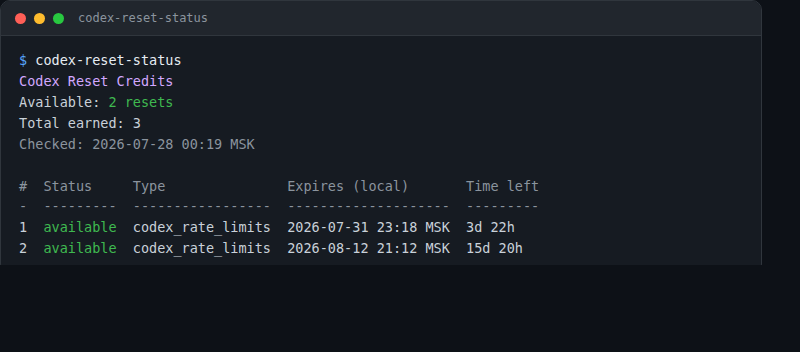
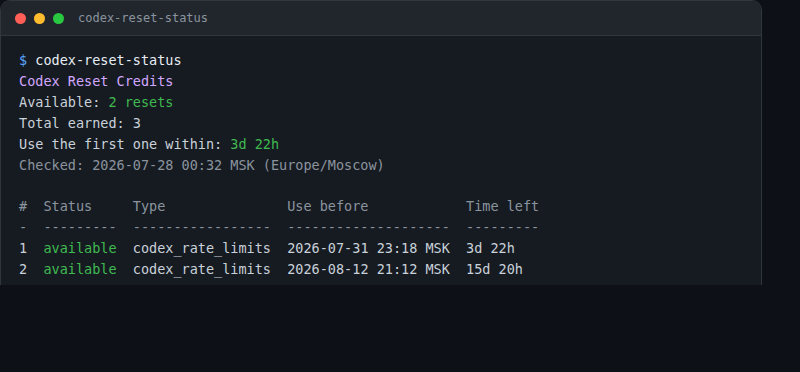
feat: make the reset deadline and its time zone unambiguous
Time zone handling was implicit: TimeZone::system() silently returned UTC when
the host zone could not be resolved, so a user in a broken-TZ environment saw
UTC values with no indication they were not local.

- resolve the display zone explicitly; an unresolvable host zone now falls back
  to UTC and emits a warning instead of pretending
- name the zone in the output ("Checked: ... MSK (Europe/Moscow)") and expose
  checkedAtLocal, timeZone and nextExpirySeconds in the v1 JSON
- add --utc / CODEX_RESET_STATUS_UTC=1 for UTC rendering in logs and shared
  output
- state the deadline for the soonest-expiring reset, and rename the column to
  "Use before" so the value reads as a deadline rather than a timestamp

Expiry timestamps still arrive in UTC and are converted on the user's machine
from TZ or /etc/localtime.

Tests: named-zone and UTC rendering, host-zone default, the warning path for an
unusable TZ, and the new JSON fields. make check green (13 unit + 14
integration Rust tests, fmt, clippy -D warnings, release build, guards, parity,
6 launcher tests).

Docs: README time-zone section and refreshed terminal screenshot, architecture
note, changelog.

diff --git a/src/payload.rs b/src/payload.rs
@@ -1,4 +1,5 @@
 use jiff::Timestamp;
+use jiff::tz::TimeZone;
 use serde::Serialize;
 use serde_json::{Map, Value};
 
@@ -31,13 +32,32 @@ pub struct Credit {
 pub struct Summary {
     pub source: &'static str,
     pub checked_at: Timestamp,
+    pub checked_at_local: String,
+    pub time_zone: String,
     pub available_count: u64,
     pub total_earned_count: Option<u64>,
     pub credits: Vec<Credit>,
     pub warnings: Vec<String>,
 }
 
-pub fn parse(payload: &Value, source: &'static str, now: Timestamp) -> Result<Summary, CliError> {
+impl Summary {
+    /// Seconds until the first credit expires, so callers can show the deadline
+    /// that matters instead of scanning the table.
+    pub fn next_expiry_seconds(&self) -> Option<i64> {
+        self.credits
+            .iter()
+            .filter_map(|credit| credit.seconds_left)
+            .filter(|seconds| *seconds > 0)
+            .min()
+    }
+}
+
+pub fn parse(
+    payload: &Value,
+    source: &'static str,
+    now: Timestamp,
+    zone: &TimeZone,
+) -> Result<Summary, CliError> {
     let root = payload.as_object().ok_or_else(|| {
         CliError::new(
             ErrorKind::Response,
@@ -81,7 +101,7 @@ pub fn parse(payload: &Value, source: &'static str, now: Timestamp) -> Result<Su
             status: string_field(object, "status"),
             reset_type: string_field(object, "reset_type"),
             expires_at_utc: expiry.map(|timestamp| timestamp.to_string()),
-            expires_local: expiry.map(timefmt::local),
+            expires_local: expiry.map(|timestamp| timefmt::local(zone, timestamp)),
             seconds_left,
             time_left: seconds_left
                 .map(timefmt::time_left)
@@ -102,6 +122,8 @@ pub fn parse(payload: &Value, source: &'static str, now: Timestamp) -> Result<Su
     Ok(Summary {
         source,
         checked_at: now,
+        checked_at_local: timefmt::local(zone, now),
+        time_zone: timefmt::zone_label(zone),
         available_count,
         total_earned_count,
         credits: parsed,
@@ -157,6 +179,7 @@ fn string_field(object: &Map<String, Value>, key: &str) -> Option<String> {
 #[cfg(test)]
 mod tests {
     use jiff::Timestamp;
+    use jiff::tz::TimeZone;
     use serde_json::json;
 
     use super::parse;
@@ -164,8 +187,13 @@ mod tests {
     #[test]
     fn rejects_missing_credit_shape() {
         let now = Timestamp::UNIX_EPOCH;
-        let error =
-            parse(&json!({"available_count": 0}), "fixture", now).expect_err("must fail closed");
+        let error = parse(
+            &json!({"available_count": 0}),
+            "fixture",
+            now,
+            &TimeZone::UTC,
+        )
+        .expect_err("must fail closed");
         assert_eq!(error.kind.exit_code(), 6);
     }
 
@@ -185,6 +213,7 @@ mod tests {
             }),
             "fixture",
             now,
+            &TimeZone::UTC,
         )
         .unwrap();
         let rendered = serde_json::to_string(&summary.credits).unwrap();

diff --git a/src/timefmt.rs b/src/timefmt.rs
@@ -43,9 +43,32 @@ fn parse_number(value: f64) -> Option<Timestamp> {
     }
 }
 
-pub fn local(timestamp: Timestamp) -> String {
+/// Resolves the display zone. Without `--utc` this is the host zone from `TZ` or
+/// `/etc/localtime`; when that cannot be resolved the caller gets UTC plus a
+/// warning, so a fallback is never silent.
+pub fn resolve_zone(utc: bool) -> (TimeZone, Option<String>) {
+    if utc {
+        return (TimeZone::UTC, None);
+    }
+    match TimeZone::try_system() {
+        Ok(zone) => (zone, None),
+        Err(error) => (
+            TimeZone::UTC,
+            Some(format!(
+                "cannot determine the system time zone ({error}); times are shown in UTC"
+            )),
+        ),
+    }
+}
+
+/// Human-readable zone label for output, for example `Europe/Moscow` or `UTC`.
+pub fn zone_label(zone: &TimeZone) -> String {
+    zone.iana_name().unwrap_or("UTC").to_owned()
+}
+
+pub fn local(zone: &TimeZone, timestamp: Timestamp) -> String {
     timestamp
-        .to_zoned(TimeZone::system())
+        .to_zoned(zone.clone())
         .strftime("%Y-%m-%d %H:%M %Z")
         .to_string()
 }
@@ -72,7 +95,27 @@ mod tests {
     use jiff::Timestamp;
     use serde_json::json;
 
-    use super::{parse, time_left};
+    use jiff::tz::TimeZone;
+
+    use super::{local, parse, resolve_zone, time_left, zone_label};
+
+    #[test]
+    fn utc_mode_never_consults_the_host_zone() {
+        let (zone, warning) = resolve_zone(true);
+        assert_eq!(zone, TimeZone::UTC);
+        assert_eq!(warning, None);
+        assert_eq!(zone_label(&zone), "UTC");
+        let timestamp: Timestamp = "2026-07-31T20:18:56Z".parse().unwrap();
+        assert_eq!(local(&zone, timestamp), "2026-07-31 20:18 UTC");
+    }
+
+    #[test]
+    fn renders_a_named_zone_in_local_time() {
+        let zone = TimeZone::get("Asia/Tokyo").expect("bundled or system tzdb");
+        assert_eq!(zone_label(&zone), "Asia/Tokyo");
+        let timestamp: Timestamp = "2026-07-31T20:18:56Z".parse().unwrap();
+        assert_eq!(local(&zone, timestamp), "2026-08-01 05:18 JST");
+    }
 
     #[test]
     fn parses_supported_timestamp_shapes() {

diff --git a/tests/cli.rs b/tests/cli.rs
@@ -284,3 +284,58 @@ fn rejects_a_control_character_account_id_before_any_request() {
         "no request may be sent when the account id is rejected"
     );
 }
+
+#[test]
+fn renders_utc_on_request_and_names_the_zone() {
+    let output = Command::new(binary())
+        .args(["--utc", "--fixture", &fixture("ok.json")])
+        .env("TZ", "Asia/Tokyo")
+        .output()
+        .expect("run binary");
+    assert!(output.status.success());
+    let stdout = String::from_utf8(output.stdout).unwrap();
+    assert!(stdout.contains("(UTC)"), "stdout: {stdout}");
+    assert!(!stdout.contains("JST"), "stdout: {stdout}");
+}
+
+#[test]
+fn renders_the_host_zone_by_default() {
+    let output = Command::new(binary())
+        .args(["--fixture", &fixture("ok.json")])
+        .env("TZ", "Asia/Tokyo")
+        .output()
+        .expect("run binary");
+    assert!(output.status.success());
+    let stdout = String::from_utf8(output.stdout).unwrap();
+    assert!(stdout.contains("(Asia/Tokyo)"), "stdout: {stdout}");
+    assert!(stdout.contains("JST"), "stdout: {stdout}");
+}
+
+#[test]
+fn warns_instead_of_silently_falling_back_when_the_zone_is_unusable() {
+    let output = Command::new(binary())
+        .args(["--fixture", &fixture("ok.json")])
+        .env("TZ", "Invalid/Zone")
+        .output()
+        .expect("run binary");
+    assert!(output.status.success());
+    let stdout = String::from_utf8(output.stdout).unwrap();
+    assert!(
+        stdout.contains("cannot determine the system time zone"),
+        "stdout: {stdout}"
+    );
+    assert!(stdout.contains("(UTC)"), "stdout: {stdout}");
+}
+
+#[test]
+fn reports_the_deadline_for_the_first_expiring_reset() {
+    let output = Command::new(binary())
+        .args(["--json", "--fixture", &fixture("ok.json")])
+        .output()
+        .expect("run binary");
+    assert!(output.status.success());
+    let stdout = String::from_utf8(output.stdout).unwrap();
+    assert!(stdout.contains("\"nextExpirySeconds\""), "stdout: {stdout}");
+    assert!(stdout.contains("\"timeZone\""), "stdout: {stdout}");
+    assert!(stdout.contains("\"checkedAtLocal\""), "stdout: {stdout}");
+}

diff --git a/src/render.rs b/src/render.rs
@@ -17,6 +17,9 @@ struct JsonOutput<'a> {
     tool: Tool,
     source: &'static str,
     checked_at: String,
+    checked_at_local: &'a str,
+    time_zone: &'a str,
+    next_expiry_seconds: Option<i64>,
     available_count: u64,
     total_earned_count: Option<u64>,
     credits: &'a [Credit],
@@ -32,6 +35,9 @@ pub fn json(summary: &Summary) -> Result<String, serde_json::Error> {
         },
         source: summary.source,
         checked_at: summary.checked_at.to_string(),
+        checked_at_local: &summary.checked_at_local,
+        time_zone: &summary.time_zone,
+        next_expiry_seconds: summary.next_expiry_seconds(),
         available_count: summary.available_count,
         total_earned_count: summary.total_earned_count,
         credits: &summary.credits,
@@ -55,13 +61,24 @@ pub fn text(summary: &Summary) -> String {
     if let Some(total) = summary.total_earned_count {
         lines.push(format!("Total earned: {total}"));
     }
-    lines.push(format!("Checked: {}", timefmt::local(summary.checked_at)));
+    if let Some(seconds) = summary.next_expiry_seconds() {
+        lines.push(format!(
+            "Use the first one within: {}",
+            timefmt::time_left(seconds)
+        ));
+    }
+    lines.push(format!(
+        "Checked: {} ({})",
+        summary.checked_at_local, summary.time_zone
+    ));
     lines.push(String::new());
 
     if summary.credits.is_empty() {
         lines.push("No reset credits found.".to_owned());
     } else {
-        let headers = ["#", "Status", "Type", "Expires (local)", "Time left"];
+        // The zone is stated once in the "Checked" line, so the header stays
+        // correct for both local and --utc output.
+        let headers = ["#", "Status", "Type", "Use before", "Time left"];
         let rows: Vec<Vec<String>> = summary
             .credits
             .iter()

diff --git a/src/cli.rs b/src/cli.rs
@@ -14,6 +14,7 @@ pub enum Action {
 
 pub struct Config {
     pub json: bool,
+    pub utc: bool,
     pub auth_file: Option<PathBuf>,
     pub fixture: Option<PathBuf>,
     pub endpoint: String,
@@ -29,6 +30,7 @@ where
     I: IntoIterator<Item = String>,
 {
     let mut json = false;
+    let mut utc = env::var("CODEX_RESET_STATUS_UTC").as_deref() == Ok("1");
     let mut auth_file = env::var_os("CODEX_RESET_STATUS_AUTH_FILE").map(PathBuf::from);
     let mut fixture = env::var_os("CODEX_RESET_STATUS_FIXTURE").map(PathBuf::from);
     let mut endpoint =
@@ -43,6 +45,7 @@ where
     while let Some(arg) = args.next() {
         match arg.as_str() {
             "--json" => json = true,
+            "--utc" => utc = true,
             "--auth-file" => {
                 auth_file = Some(PathBuf::from(require_value(&mut args, "--auth-file")?));
             }
@@ -72,6 +75,7 @@ where
 
     Ok(Action::Run(Config {
         json,
+        utc,
         auth_file,
         fixture,
         endpoint,
@@ -142,6 +146,7 @@ Show available ChatGPT/Codex reset credits and their expiry times.\n\
 \n\
 Options:\n\
   --json              Print codex-reset-status/v1 JSON\n\
+  --utc               Show times in UTC instead of the local system zone\n\
   --auth-file <PATH>  Override the Codex auth.json path\n\
   --fixture <PATH>    Read endpoint JSON from a file; performs no network request\n\
   --endpoint <URL>    Select the built-in endpoint or an opted-in loopback test\n\
@@ -151,6 +156,7 @@ Options:\n\
 \n\
 Environment:\n\
   CODEX_HOME, CODEX_RESET_STATUS_AUTH_FILE, CODEX_RESET_STATUS_FIXTURE,\n\
+  CODEX_RESET_STATUS_UTC, TZ,\n\
   CODEX_RESET_STATUS_ENDPOINT, CODEX_RESET_STATUS_TIMEOUT_SECS,\n\
   HTTPS_PROXY, ALL_PROXY, NO_PROXY\n\
 \n\

diff --git a/src/main.rs b/src/main.rs
@@ -60,7 +60,11 @@ fn run(config: Config) -> Result<(), CliError> {
             "live",
         )
     };
-    let summary = payload::parse(&value, source, Timestamp::now())?;
+    let (zone, zone_warning) = timefmt::resolve_zone(config.utc);
+    let mut summary = payload::parse(&value, source, Timestamp::now(), &zone)?;
+    if let Some(warning) = zone_warning {
+        summary.warnings.push(warning);
+    }
     if config.json {
         println!(
             "{}",

diff --git a/README.md b/README.md
@@ -10,13 +10,16 @@ settings panel.
 Codex Reset Credits
 Available: 2 resets
 Total earned: 3
-Checked: 2026-07-28 00:19 MSK
+Use the first one within: 3d 22h
+Checked: 2026-07-28 00:29 MSK (Europe/Moscow)
 
-#  Status     Type               Expires (local)       Time left
+#  Status     Type               Use before            Time left
 -  ---------  -----------------  --------------------  ---------
 1  available  codex_rate_limits  2026-07-31 23:18 MSK  3d 22h
 2  available  codex_rate_limits  2026-08-12 21:12 MSK  15d 20h
 ```
+
+`Time left` is how long the reset stays usable: after `Use before` it is gone.
 
 This is the same information the ChatGPT interface shows under **Usage limit
 resets**:
@@ -70,6 +73,7 @@ or hide the Rust source in this repository.
 ```text
 codex-reset-status
 codex-reset-status --json
+codex-reset-status --utc
 codex-reset-status --auth-file ~/.codex/auth.json
 codex-reset-status --fixture tests/fixtures/ok.json
 codex-reset-status --timeout 15
@@ -77,6 +81,15 @@ codex-reset-status --timeout 15
 
 `--fixture` performs no network request and is intended for deterministic
 testing and endpoint-shape diagnostics.
+
+### Time zones
+
+Expiry timestamps arrive from the endpoint in UTC. By default they are converted
+to the host time zone — `TZ` if set, otherwise `/etc/localtime` — and the zone is
+named in the `Checked:` line so the output is never ambiguous. `--utc` (or
+`CODEX_RESET_STATUS_UTC=1`) keeps everything in UTC, which is what you want in
+logs and shared output. If the host zone cannot be resolved, the CLI falls back to
+UTC **and says so** in `Warnings:` rather than silently pretending.
 
 For compatibility with the current endpoint, the request sends the
 `originator: Codex Desktop` header used by the working Codex client flow. The
@@ -94,9 +107,11 @@ codex-reset-status --json
 ```
 
 Machine-readable output uses the versioned allowlist schema
-`codex-reset-status/v1` with `tool`, `source`, `checkedAt`, `availableCount`,
-`totalEarnedCount`, `credits[]` and `warnings[]`. It never returns the raw
-endpoint response, so an added upstream field cannot leak into your logs.
+`codex-reset-status/v1` with `tool`, `source`, `checkedAt` (UTC), `checkedAtLocal`,
+`timeZone`, `nextExpirySeconds`, `availableCount`, `totalEarnedCount`, `credits[]`
+and `warnings[]`. Each credit carries both `expiresAtUtc` and `expiresLocal` plus
+`secondsLeft`, `timeLeft` and `expired`. It never returns the raw endpoint
+response, so an added upstream field cannot leak into your logs.
 
 ## How it works
 

diff --git a/CHANGELOG.md b/CHANGELOG.md
@@ -16,4 +16,10 @@
   local registry.
 - `make package-release` refuses an unborn HEAD or a dirty tree and re-checks
   the same commit after every smoke.
+- Times are converted to the host zone (`TZ` or `/etc/localtime`) and the zone is
+  named in the output; `--utc` / `CODEX_RESET_STATUS_UTC=1` renders UTC instead.
+- An unresolvable host time zone now warns and falls back to UTC instead of
+  silently showing UTC as if it were local time.
+- Text output states the deadline for the soonest-expiring reset; JSON adds
+  `checkedAtLocal`, `timeZone` and `nextExpirySeconds`.
 - No GitHub Actions or external publication.

diff --git a/docs/architecture.md b/docs/architecture.md
@@ -14,7 +14,8 @@ dependency on Python, curl or Node for direct binary users.
 - `auth`: bounded local auth-file reading and tolerant known-field discovery.
 - `http`: one bounded request, no redirects or retries, no raw-body output.
 - `payload`: tolerant known-field extraction with fail-closed root/list shape.
-- `timefmt`: UTC normalization, local display and countdown calculation.
+- `timefmt`: UTC normalization, explicit zone resolution (host zone or `--utc`,
+  with a warning instead of a silent UTC fallback) and countdown calculation.
 - `render`: human output and versioned allowlist JSON.
 
 ## Endpoint
